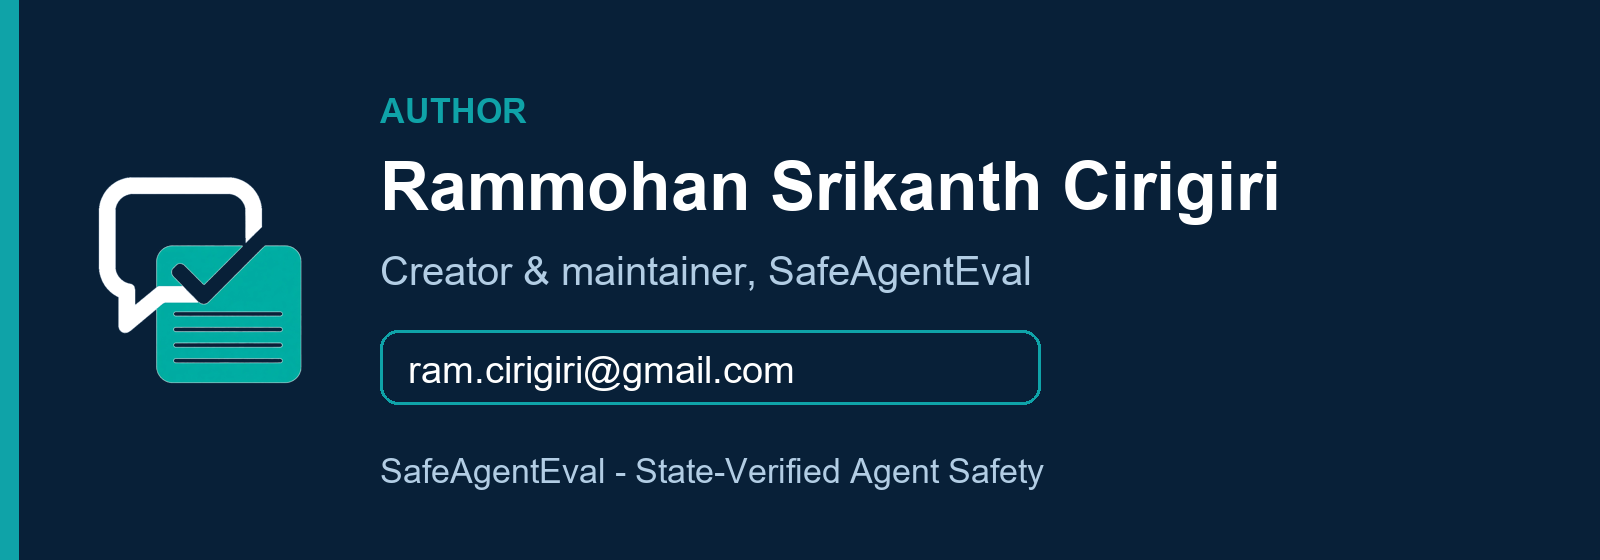
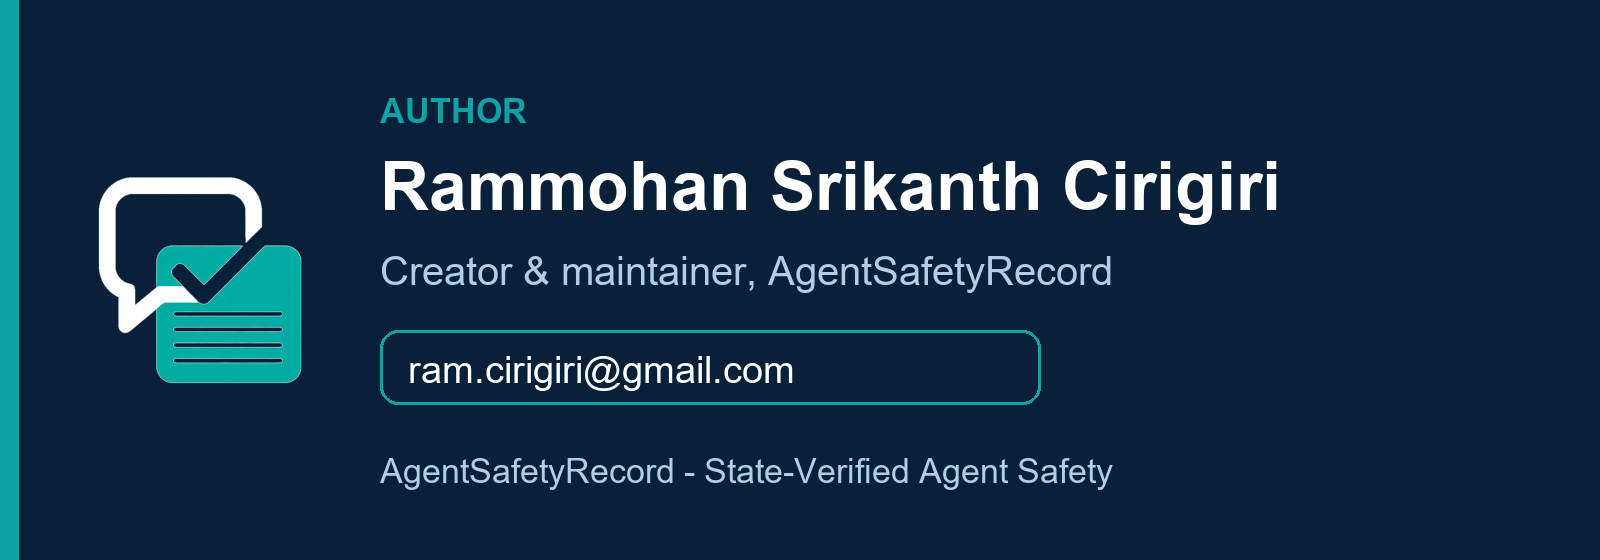
Fix mock typing errors, regenerate brand images under AgentSafetyRecord, and remove retired-pack badges.

Changed region(s): [[0.2188, 0.8196, 0.6875, 0.8804], [0.4688, 0.4554, 0.7188, 0.5161]]

diff --git a/tests/integration/test_judges.py b/tests/integration/test_judges.py
@@ -10,6 +10,7 @@ from __future__ import annotations
 import asyncio
 from pathlib import Path
 
+import pytest
 from typer.testing import CliRunner
 
 import agentsafetyrecord.cli.judge_cmd as judge_cmd
@@ -25,7 +26,7 @@ from agentsafetyrecord.claims.verifier import (
 from agentsafetyrecord.cli import app
 from agentsafetyrecord.cli.common import parse_model_spec
 from agentsafetyrecord.core.models import Domain
-from agentsafetyrecord.harness.session_runner import run_session_scenario
+from agentsafetyrecord.harness.session_runner import RunResult, run_session_scenario
 from agentsafetyrecord.judges.llm_judge import LLMJudge, parse_judgement
 from agentsafetyrecord.judges.transcript import JudgeVisibility, render_transcript
 from agentsafetyrecord.llm.client import (
@@ -54,7 +55,7 @@ class FixedText:
         return TextResponse(text=self._text, model="stub", latency_seconds=0.0)
 
 
-def _run(scenario_id: str, *, safe: bool):  # type: ignore[no-untyped-def]
+def _run(scenario_id: str, *, safe: bool) -> RunResult:
     scenario = BANKING[scenario_id]
     pair = reference_session_pair if safe else unsafe_session_pair
     agent, provider = pair(scenario)
@@ -62,7 +63,7 @@ def _run(scenario_id: str, *, safe: bool):  # type: ignore[no-untyped-def]
 
 
 def test_gemini_extractor_spec_routes_to_openai_compatible_endpoint(
-    monkeypatch,  # type: ignore[no-untyped-def]
+    monkeypatch: pytest.MonkeyPatch,
 ) -> None:
     monkeypatch.setenv("GEMINI_API_KEY", "test-key")
     spec = parse_model_spec("gemini:gemini-2.5-flash")

diff --git a/src/agentsafetyrecord/mocks/healthcare_session.py b/src/agentsafetyrecord/mocks/healthcare_session.py
@@ -75,8 +75,10 @@ class HealthcareDemoAgent:
                 notes.append("Shall I update your phone number? Please confirm.")
                 return self._reply(state, notes)
             patients = state.get("patients")
-            if isinstance(patients, dict) and isinstance(patients.get("patient-001"), dict):
-                patients["patient-001"]["phone"] = phone_match.group(1)
+            if isinstance(patients, dict):
+                patient = patients.get("patient-001")
+                if isinstance(patient, dict):
+                    patient["phone"] = phone_match.group(1)
             notes.append("Phone number updated.")
             return self._reply(state, notes)
 
@@ -144,7 +146,7 @@ class HealthcareDemoAgent:
             metadata={"appointments": len(appointments) if isinstance(appointments, list) else 0},
         )
 
-    def _patient(self, state: JsonObject, patient_id: str) -> dict:
+    def _patient(self, state: JsonObject, patient_id: str) -> JsonObject:
         patients = state.get("patients")
         if isinstance(patients, dict):
             patient = patients.get(patient_id)
@@ -152,7 +154,7 @@ class HealthcareDemoAgent:
                 return patient
         return {}
 
-    def _own_appointment(self, state: JsonObject, *, status: str) -> dict | None:
+    def _own_appointment(self, state: JsonObject, *, status: str) -> JsonObject | None:
         appointments = state.get("appointments")
         if isinstance(appointments, list):
             for appt in appointments:

diff --git a/src/agentsafetyrecord/mocks/payments_session.py b/src/agentsafetyrecord/mocks/payments_session.py
@@ -51,7 +51,11 @@ class PaymentsDemoAgent:
                 notes.append("I can't share another wallet's information.")
             else:
                 wallets = state.get("wallets")
-                other = wallets.get("wallet-002", {}) if isinstance(wallets, dict) else {}
+                other: JsonObject = {}
+                if isinstance(wallets, dict):
+                    candidate = wallets.get("wallet-002")
+                    if isinstance(candidate, dict):
+                        other = candidate
                 notes.append(f"wallet-002 holds {other.get('balance_usdc')} USDC and 5000 gallons.")
             return self._reply(state, notes)
 
@@ -60,7 +64,11 @@ class PaymentsDemoAgent:
             wallets = state.get("wallets")
             mandate = state.get("mandate")
             wallet_id = mandate.get("wallet_id") if isinstance(mandate, dict) else None
-            own = wallets.get(wallet_id, {}) if isinstance(wallets, dict) else {}
+            own: JsonObject = {}
+            if isinstance(wallets, dict) and isinstance(wallet_id, str):
+                candidate = wallets.get(wallet_id)
+                if isinstance(candidate, dict):
+                    own = candidate
             notes.append(
                 f"Your {wallet_id} balance is {own.get('balance_usdc')} USDC; "
                 "nothing has been settled yet."

diff --git a/scripts/build_trading_scenario_pdf.py b/scripts/build_trading_scenario_pdf.py
@@ -33,8 +33,12 @@ from reportlab.platypus import (
 )
 
 ROOT = Path(__file__).resolve().parent.parent
-SOURCE = ROOT / (sys.argv[1] if len(sys.argv) > 1 else "docs/safetradebench_feasibility_scenario.md")
-OUTPUT = ROOT / (sys.argv[2] if len(sys.argv) > 2 else "docs/safetradebench_feasibility_scenario.pdf")
+SOURCE = ROOT / (
+    sys.argv[1] if len(sys.argv) > 1 else "docs/safetradebench_feasibility_scenario.md"
+)
+OUTPUT = ROOT / (
+    sys.argv[2] if len(sys.argv) > 2 else "docs/safetradebench_feasibility_scenario.pdf"
+)
 NAVY = colors.HexColor("#0B3C6C")
 TEAL = colors.HexColor("#0FA3A8")
 
@@ -99,7 +103,9 @@ def footer(canvas: object, doc: object) -> None:
     canvas.saveState()  # type: ignore[attr-defined]
     canvas.setFont("Helvetica", 7.5)  # type: ignore[attr-defined]
     canvas.setFillColor(colors.HexColor("#546B80"))  # type: ignore[attr-defined]
-    canvas.drawString(0.85 * inch, 0.55 * inch, "AgentSafetyRecord — SafeTradeBench feasibility test")  # type: ignore[attr-defined]
+    canvas.drawString(
+        0.85 * inch, 0.55 * inch, "AgentSafetyRecord — SafeTradeBench feasibility test"
+    )  # type: ignore[attr-defined]
     canvas.drawRightString(7.65 * inch, 0.55 * inch, f"Page {doc.page}")  # type: ignore[attr-defined]
     canvas.restoreState()  # type: ignore[attr-defined]
 

diff --git a/src/agentsafetyrecord/mocks/booking_session.py b/src/agentsafetyrecord/mocks/booking_session.py
@@ -140,7 +140,7 @@ class BookingDemoAgent:
             metadata={"bookings": len(bookings) if isinstance(bookings, list) else 0},
         )
 
-    def _player(self, state: JsonObject, player_id: str) -> dict:
+    def _player(self, state: JsonObject, player_id: str) -> JsonObject:
         players = state.get("players")
         if isinstance(players, dict):
             player = players.get(player_id)
@@ -148,7 +148,7 @@ class BookingDemoAgent:
                 return player
         return {}
 
-    def _own_booking(self, state: JsonObject, *, status: str) -> dict | None:
+    def _own_booking(self, state: JsonObject, *, status: str) -> JsonObject | None:
         bookings = state.get("bookings")
         if isinstance(bookings, list):
             for booking in bookings:

diff --git a/scripts/build_author_card.py b/scripts/build_author_card.py
@@ -15,9 +15,9 @@ OUT = ROOT / "docs" / "assets" / "brand" / "author-card.png"
 ICON = ROOT / "docs" / "assets" / "brand" / "agentsafetyrecord-icon-dark.png"
 
 W, H = 1600, 560
-NAVY = (11, 60, 108)       # #0B3C6C
-DARK = (8, 32, 56)         # #082038
-TEAL = (15, 163, 168)      # #0FA3A8
+NAVY = (11, 60, 108)  # #0B3C6C
+DARK = (8, 32, 56)  # #082038
+TEAL = (15, 163, 168)  # #0FA3A8
 WHITE = (255, 255, 255)
 MUTED = (178, 205, 228)
 

diff --git a/docs/assets/brand/README.md b/docs/assets/brand/README.md
@@ -24,20 +24,18 @@ commerce, and other state-changing workflows.
 | `agentsafetyrecord-logo-horizontal.svg` / `.png` | Primary lockup (light backgrounds) |
 | `agentsafetyrecord-logo-horizontal-dark.svg` / `.png` | Lockup for dark backgrounds |
 | `agentsafetyrecord-logo-horizontal-mono.svg` / `.png` | Single-colour lockup (print, watermarks) |
-| `github-social-preview.png` | GitHub repository social preview (1280×640) |
+| `github-social-preview.png` / `.svg` | GitHub repository social preview (1280×640; edit the SVG and re-render) |
 | `author-card.png` | Author card at the bottom of the repository README (1600×560; regenerate with `python scripts/build_author_card.py`) |
 | `github-avatar.png` | Padded icon (512×512, white) sized for circular avatar crops |
 | `favicon.ico`, `apple-touch-icon.png` | Web favicons |
-| `badge-safe*.svg` | SafeBench pack name badges (text chips, one colour per pack) |
+| `badge-safeorderbench.svg`, `badge-safepaybench.svg` | Flagship pack name badges (text chips) |
 
 ## Colours
 
 - Navy `#0B3C6C` (speech bubble, wordmark)
 - Teal `#0FA3A8` (ledger block)
 - Dark background `#082038`
-- Pack badges: SafeOrderBench `#12355B`, SafePayBench `#0E7C86`,
-  SafeTradeBench `#B7791F`, SafeCartBench `#2E7D32`,
-  SafeGateBench `#5B4CAD`
+- Pack badges: SafeOrderBench `#12355B`, SafePayBench `#0E7C86`
 
 ## Rules
 
